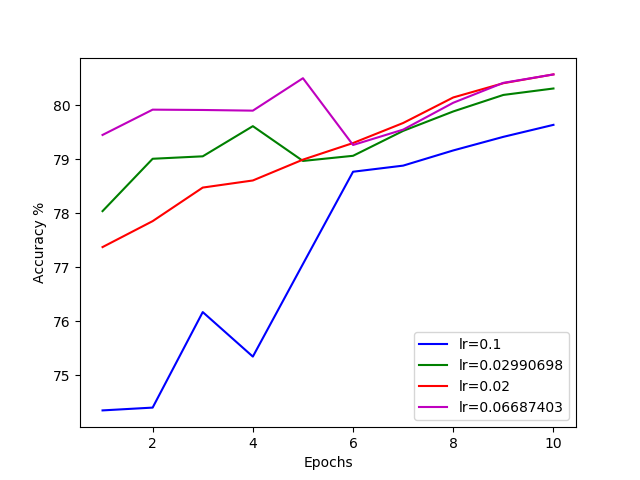
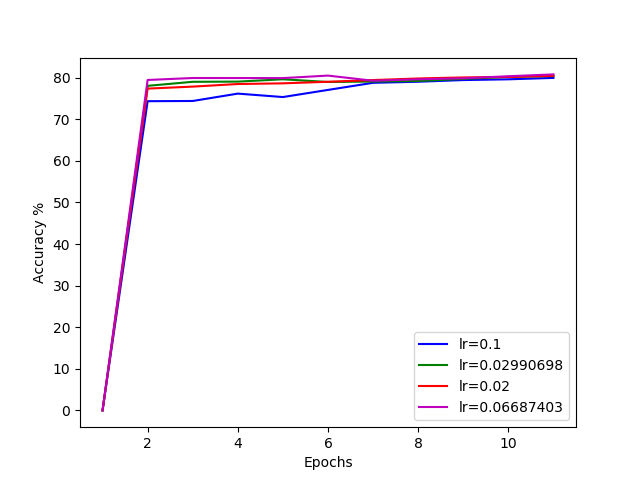
Second Commit

diff --git a/make_graph.py b/make_graph.py
@@ -20,8 +20,10 @@ for x in os.listdir(os.getcwd()):
                     accu_list.append(to_add)
                     last=to_add
                 num=x.split("_")[len(x.split("_"))-1].find("txt")
+                accu_list.insert(0,0.0)
                 dicts[x.split("_")[len(x.split("_"))-1][:num-1]]=accu_list
-ls_10=np.linspace(1,10,num=10)
+
+ls_10=np.linspace(1,11,num=11)
 fig=plt.figure()
 ax=plt.subplot(111)
 ax.plot(ls_10,dicts['0.1'],'b',label='lr=0.1')
